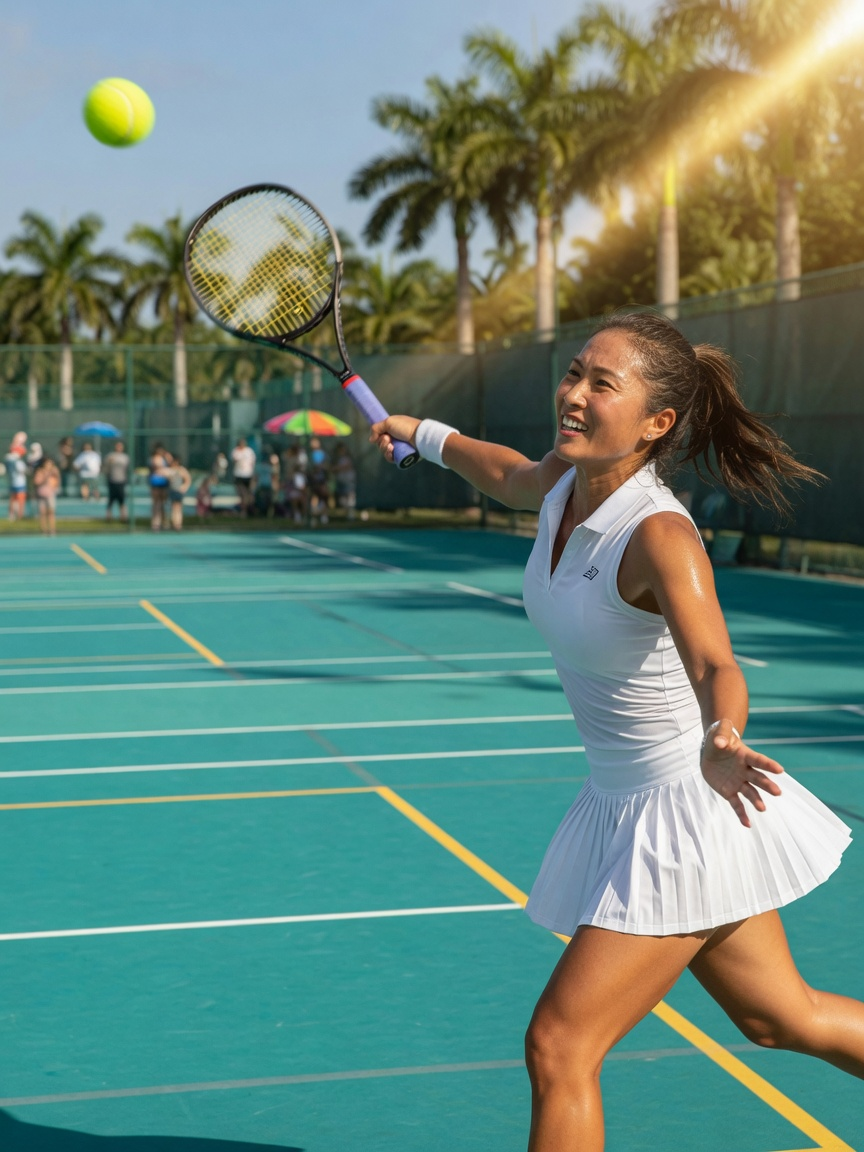
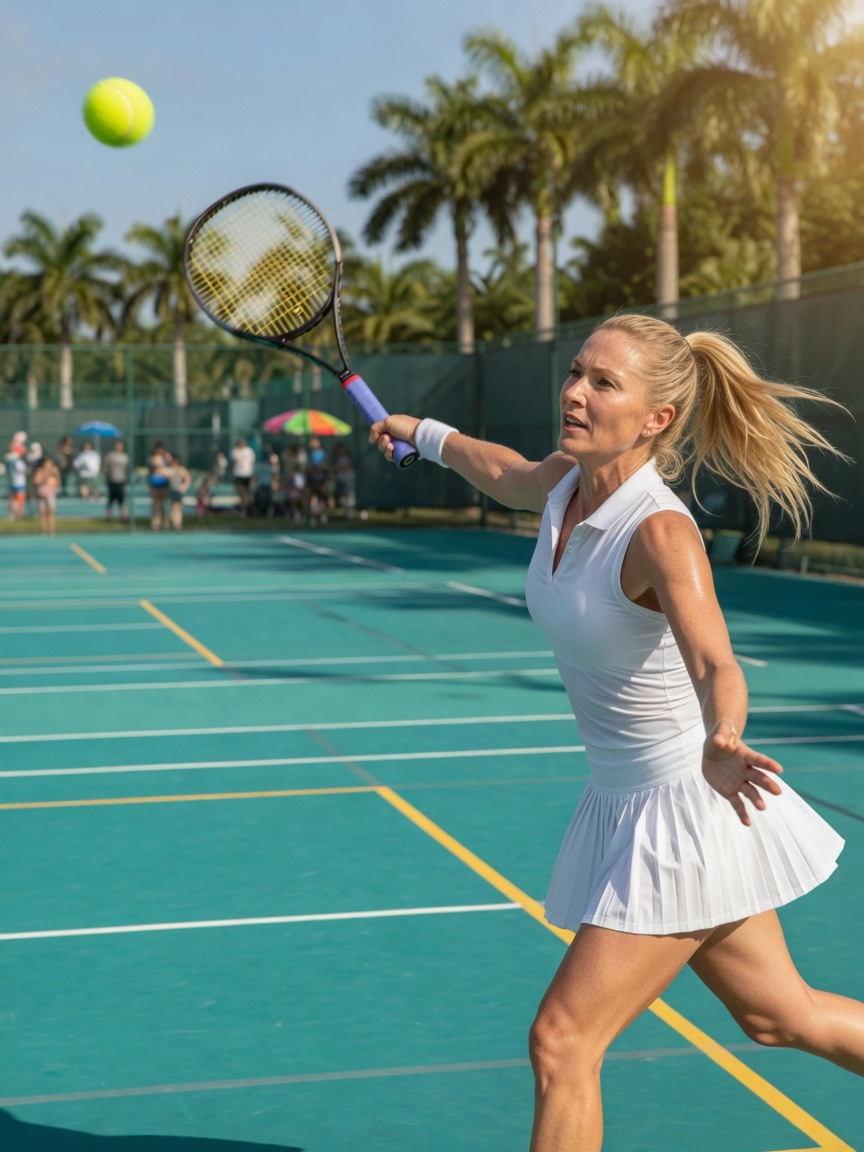
Hero 网球人物改成欧美面孔，对齐 Baleaf 参考和品牌气质。

diff --git a/MEMORY.md b/MEMORY.md
@@ -19,7 +19,7 @@
 
 ## Hero 插图（2026-08-13 调过）
 
-- 照片：本地 `/assets/hero-returns.jpg`，户外网球动作棚外拍（2026-08-26 Imagine；Park：前一版高领坐姿没活力，参考 Baleaf 客户图的运动感）。白网球 polo + 裙，挥拍看球；着装覆盖躯干，**不要**运动内衣。裁切 `object-position: 68% 36%`（人在右、脸中上）。左缘球场留给浮卡，不要挡脸。
+- 照片：本地 `/assets/hero-returns.jpg`，户外网球动作（2026-08-26 Imagine）。Park：要活力参考 Baleaf；人物必须是**欧美人**（金发），不要亚洲面孔。白网球 polo + 裙，挥拍；着装覆盖躯干，**不要**运动内衣。裁切 `object-position: 68% 36%`（人在右、脸中上）。左缘球场留给浮卡，不要挡脸。
 - 人物卡：靠右；宽度约 **620px**（520 偏窄，铺满右栏 ~800 偏大）。
 - 左两张浮卡（商品 + 原因）贴照片**左缘**，不要挡人脸。
 - 方式卡在右下，可压腿，不要压脸。
